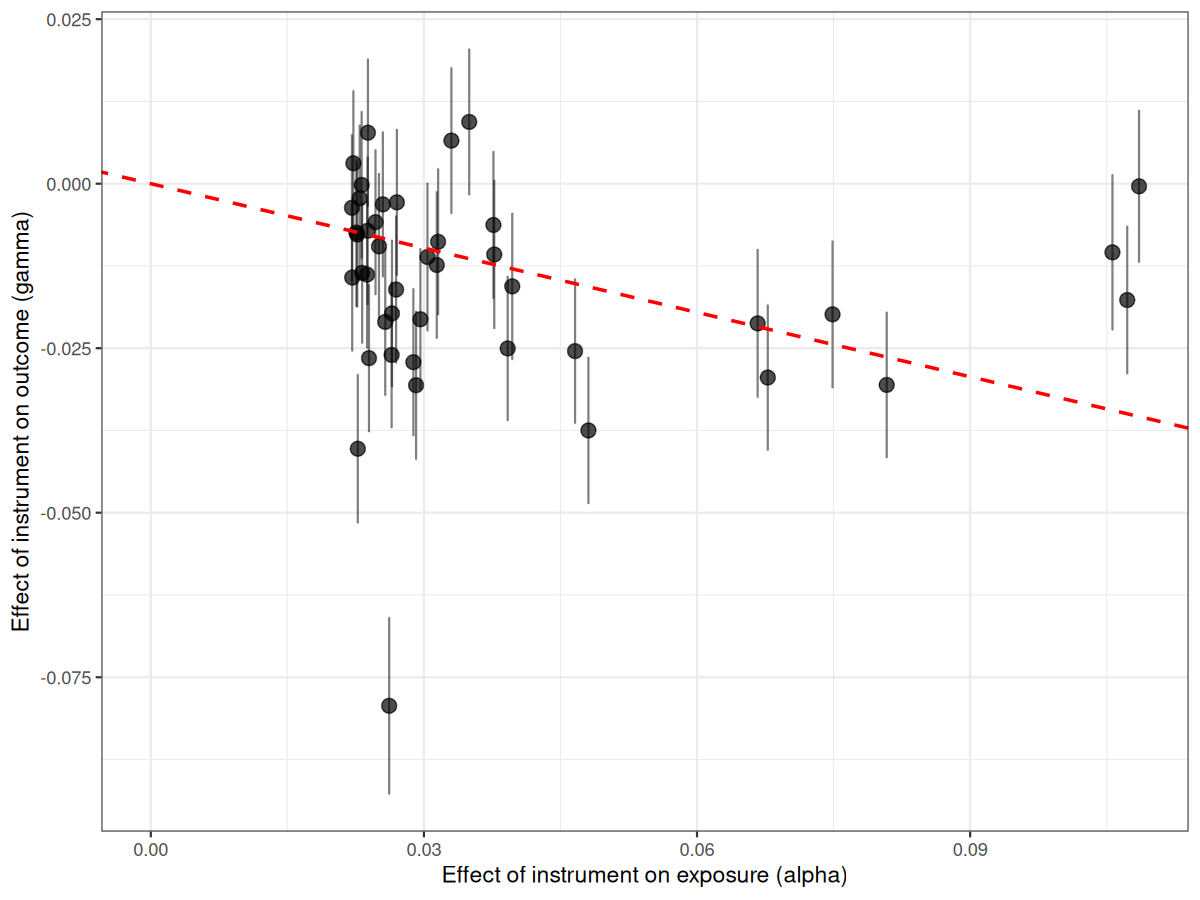
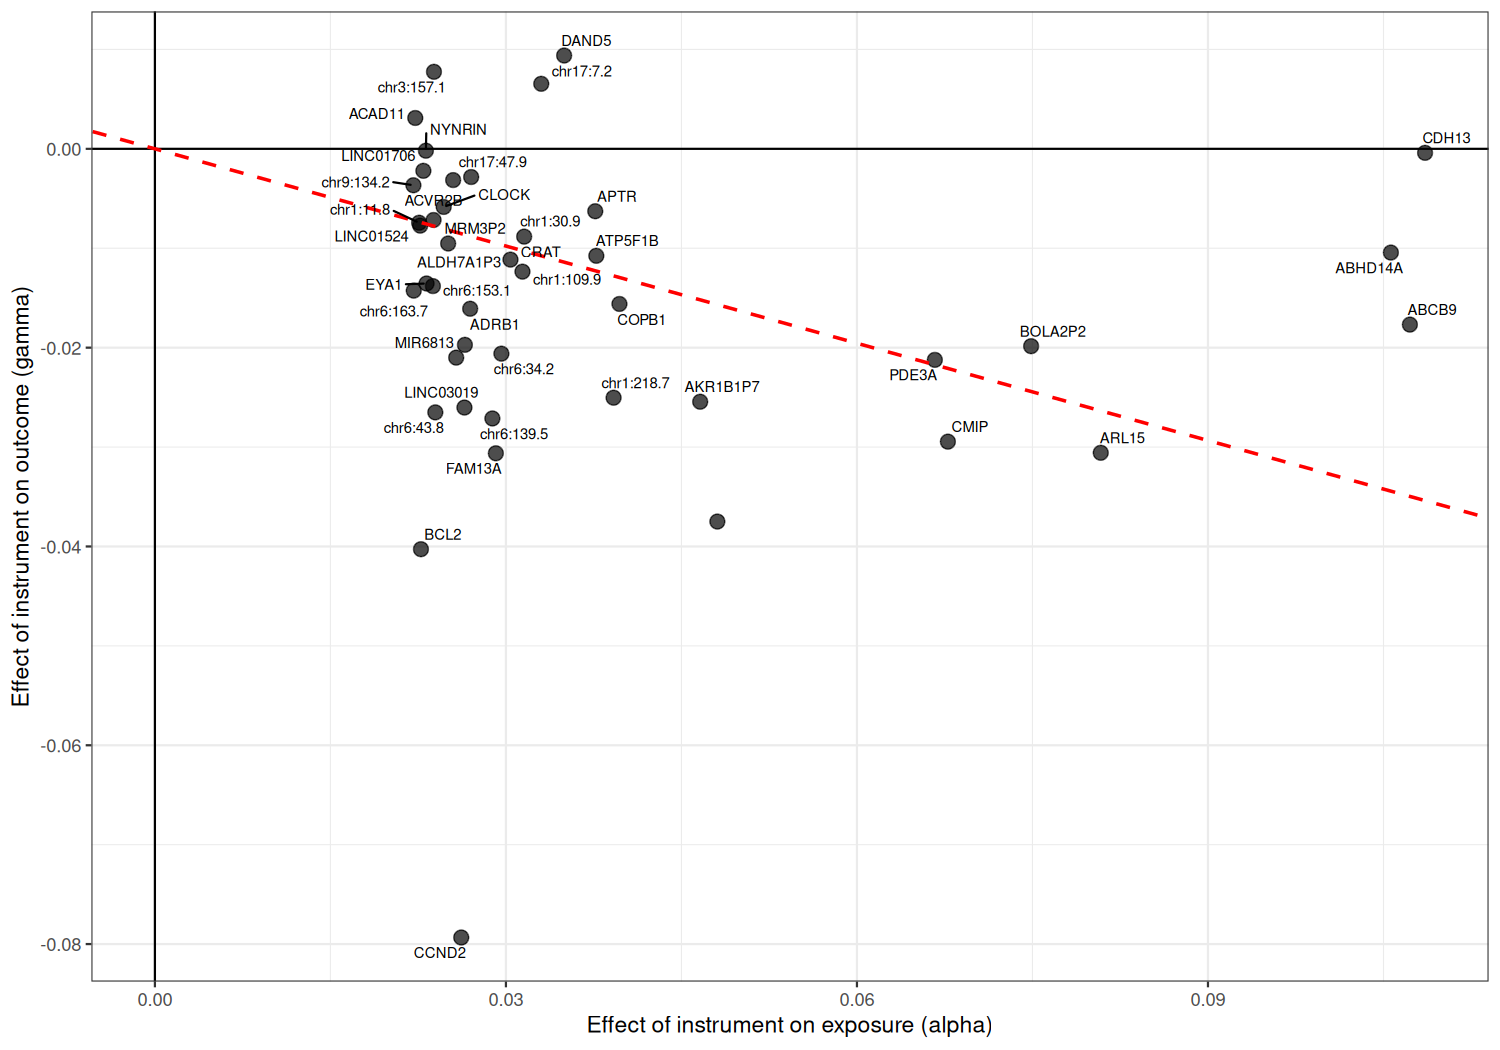
Update plot_iv_estimates: show axes, remove error bars, add qtl labels

diff --git a/README.md b/README.md
@@ -103,7 +103,7 @@ print(mle_result)
 
 ## Plot IV estimates with MLE as slope line through origin
 theta_mle <- mle_result$Estimate
-p <- plot_iv_estimates(alpha_hat, se.alpha_hat, gamma_hat, se.gamma_hat, theta_mle)
+p <- plot_iv_estimates(alpha_hat, se.alpha_hat, gamma_hat, se.gamma_hat, theta_mle, coeffs$qtlname)
 print(p)
 ```
 
